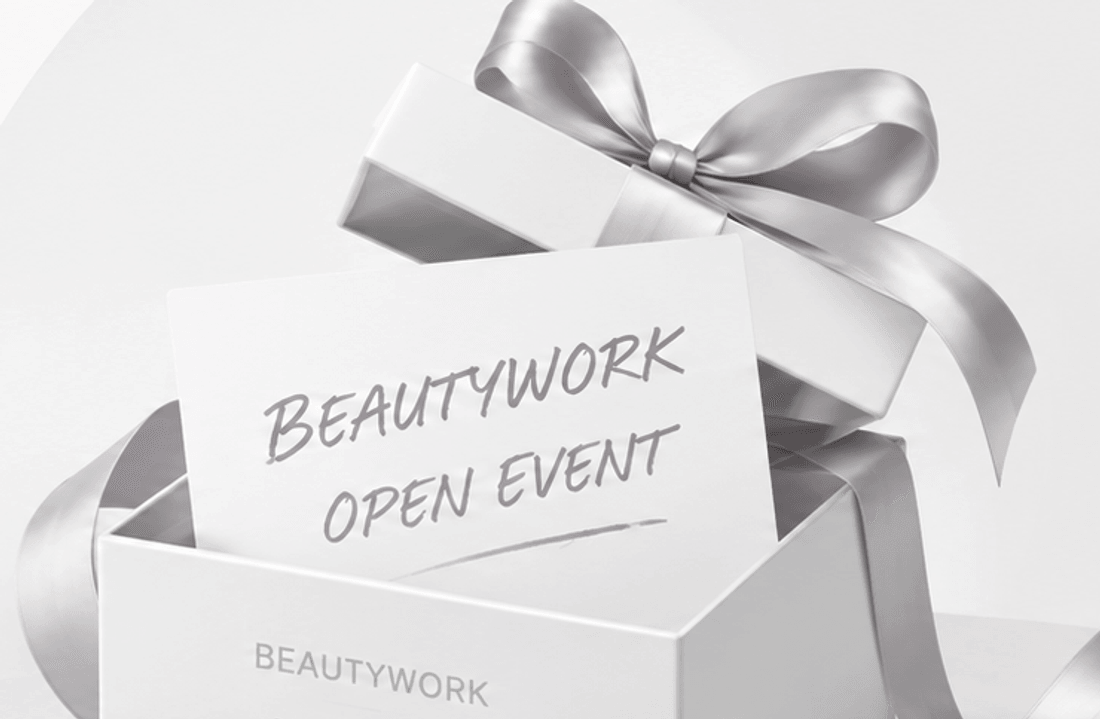
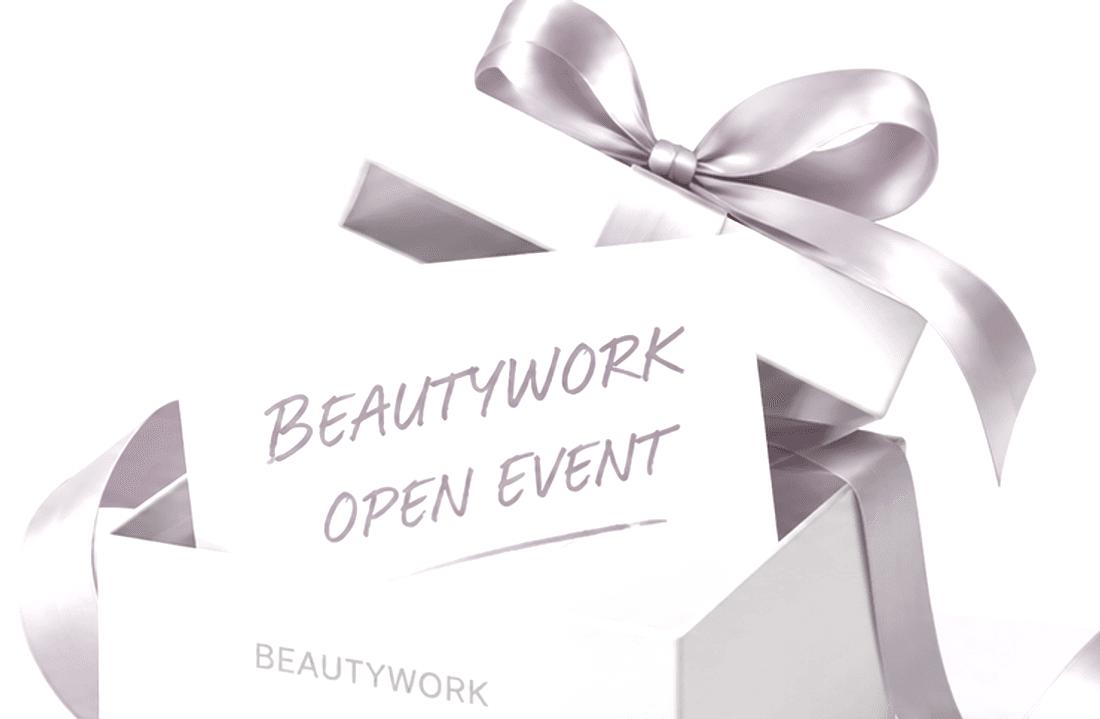
배너 아래에 다루는 직군을 세우고, 아이콘 원을 회색으로
배너만 있고 바로 혜택 카드로 넘어가서, 여기가 어떤 자리를 다루는 곳인지
말하는 대목이 없었다. 매장 열 묶음·오피스 여덟 묶음을 jobGroups 에서
그대로 만들어 세운다 — 여기 따로 적어 두면 화면과 어긋난다.

혜택·단계 아이콘 원 배경을 #f4f0f8(연보라)에서 #f1f1f3 으로 바꾼다.
사이드메뉴 고른 자리가 쓰는 회색이라 화면에 이미 있는 색이다.

배너 그림은 고르셨던 톤(채도 40% + 보라 쪽)으로 두되, 가장자리만 히어로
배경에 맞게 밝혔다. 그러지 않으면 사진이 네모로 떠 보인다. 상자도
82% 로 줄여 리본만 크게 깔리지 않게 했다.

diff --git a/components/company/CompanyServiceView.tsx b/components/company/CompanyServiceView.tsx
@@ -9,6 +9,7 @@ import {
   Scissors, FileText, Users, Wallet, ArrowRight, CalendarDays, ChevronRight,
 } from "lucide-react";
 import EventDetail from "@/components/company/EventDetail";
+import { STORE_JOB_GROUPS, OFFICE_JOB_GROUPS, 유형이름 } from "@/lib/data/jobGroups";
 
 /**
  * 기업 서비스 소개.
@@ -39,6 +40,17 @@ const 히어로강점 = [
   { Icon: FileText, name: "공고 건수 제한 없음", sub: "몇 건을 올리셔도 값이 같습니다" },
   { Icon: Users, name: "지원자는 이용권 없이", sub: "이력서와 연락처를 그대로 봅니다" },
   { Icon: Wallet, name: "자동 결제 없음", sub: "기간이 끝나면 그대로 끝납니다" },
+];
+
+/**
+ * 다루는 직군 — 실제 목록에서 만든다.
+ *
+ * 여기 따로 적어 두면 화면과 어긋난다. 전에 매장은 열 묶음인데 넷만 적혀
+ * 있었고, 오피스는 직무가 아니라 업종으로 적혀 있었다.
+ */
+const 직군묶음 = [
+  { 유형: 유형이름.STORE, 것들: STORE_JOB_GROUPS.map((g) => g.group) },
+  { 유형: 유형이름.OFFICE, 것들: OFFICE_JOB_GROUPS.map((g) => g.group) },
 ];
 
 export default function CompanyServiceView({ 이벤트 }: { 이벤트: 기업이벤트 | null }) {
@@ -101,9 +113,26 @@ export default function CompanyServiceView({ 이벤트 }: { 이벤트: 기업이
           이벤트가 없으면 아무것도 그리지 않는다 — 그때는 히어로의 강점 넷이
           화면을 맡는다. */}
       {이벤트 && (
-        <section className="cs-wrap">
-          <EventDetail 머리숨김 />
-        </section>
+        <>
+          {/* 배너 바로 아래 — 어떤 자리를 다루는 곳인지부터 보인다. */}
+          <section className="cs-wrap" id="직군">
+            <h2 className="cs-h2">다루는 직군</h2>
+            <div className="cs-groups">
+              {직군묶음.map(({ 유형, 것들 }) => (
+                <div key={유형} className="cs-group">
+                  <b>{유형}</b>
+                  <div className="cs-group-li">
+                    {것들.map((g) => <span key={g}>{g}</span>)}
+                  </div>
+                </div>
+              ))}
+            </div>
+          </section>
+
+          <section className="cs-wrap">
+            <EventDetail 머리숨김 />
+          </section>
+        </>
       )}
 
     </div>

diff --git a/app/globals.css b/app/globals.css
@@ -16233,7 +16233,7 @@ select option { background-color: #fff; color: var(--color-text-strong); }
 .cs-hero-photo.evt { background-image: url("/images/company-hero-event.png");
   /* 상자 전체가 들어오게 둔다. 확대해서 리본만 크게 깔면 그림에서 제일 진한
      자리가 화면을 채워 분홍으로 읽힌다. */
-  background-size: contain; background-repeat: no-repeat;
+  background-size: 82% auto; background-repeat: no-repeat;
   background-position: right center; }
 
 /* 배너 소재 예시 — 값만 적어 두면 무엇을 사는 것인지 그려지지 않는다. */
@@ -16305,7 +16305,7 @@ select option { background-color: #fff; color: var(--color-text-strong); }
 .ev-cards { display: grid; grid-template-columns: repeat(auto-fit, minmax(230px, 1fr)); gap: 20px; }
 .ev-card { text-align: center; padding: 8px 14px; }
 .ev-card-ic { display: inline-flex; align-items: center; justify-content: center;
-  width: 78px; height: 78px; border-radius: 50%; background: #f4f0f8; color: var(--color-primary); }
+  width: 78px; height: 78px; border-radius: 50%; background: #f1f1f3; color: var(--color-primary); }
 .ev-card b { display: block; margin: 16px 0 8px; font-size: 17.5px; color: #1f1f22; }
 .ev-card p { margin: 0; font-size: 14.5px; line-height: 1.7; color: #555; word-break: keep-all; }
 
@@ -16314,7 +16314,7 @@ select option { background-color: #fff; color: var(--color-text-strong); }
 .ev-step { display: flex; align-items: flex-start; gap: 14px;
   border: 1px solid var(--card-line); border-radius: 14px; background: #fff; padding: 22px 20px; }
 .ev-step-ic { flex: none; display: inline-flex; align-items: center; justify-content: center;
-  width: 54px; height: 54px; border-radius: 50%; background: #f4f0f8; color: var(--color-primary); }
+  width: 54px; height: 54px; border-radius: 50%; background: #f1f1f3; color: var(--color-primary); }
 .ev-step-no { display: block; font-size: 12px; font-weight: 700; letter-spacing: 1px;
   color: var(--color-primary); margin-bottom: 4px; }
 .ev-step b { display: block; font-size: 16px; color: #1f1f22; margin-bottom: 5px; }
